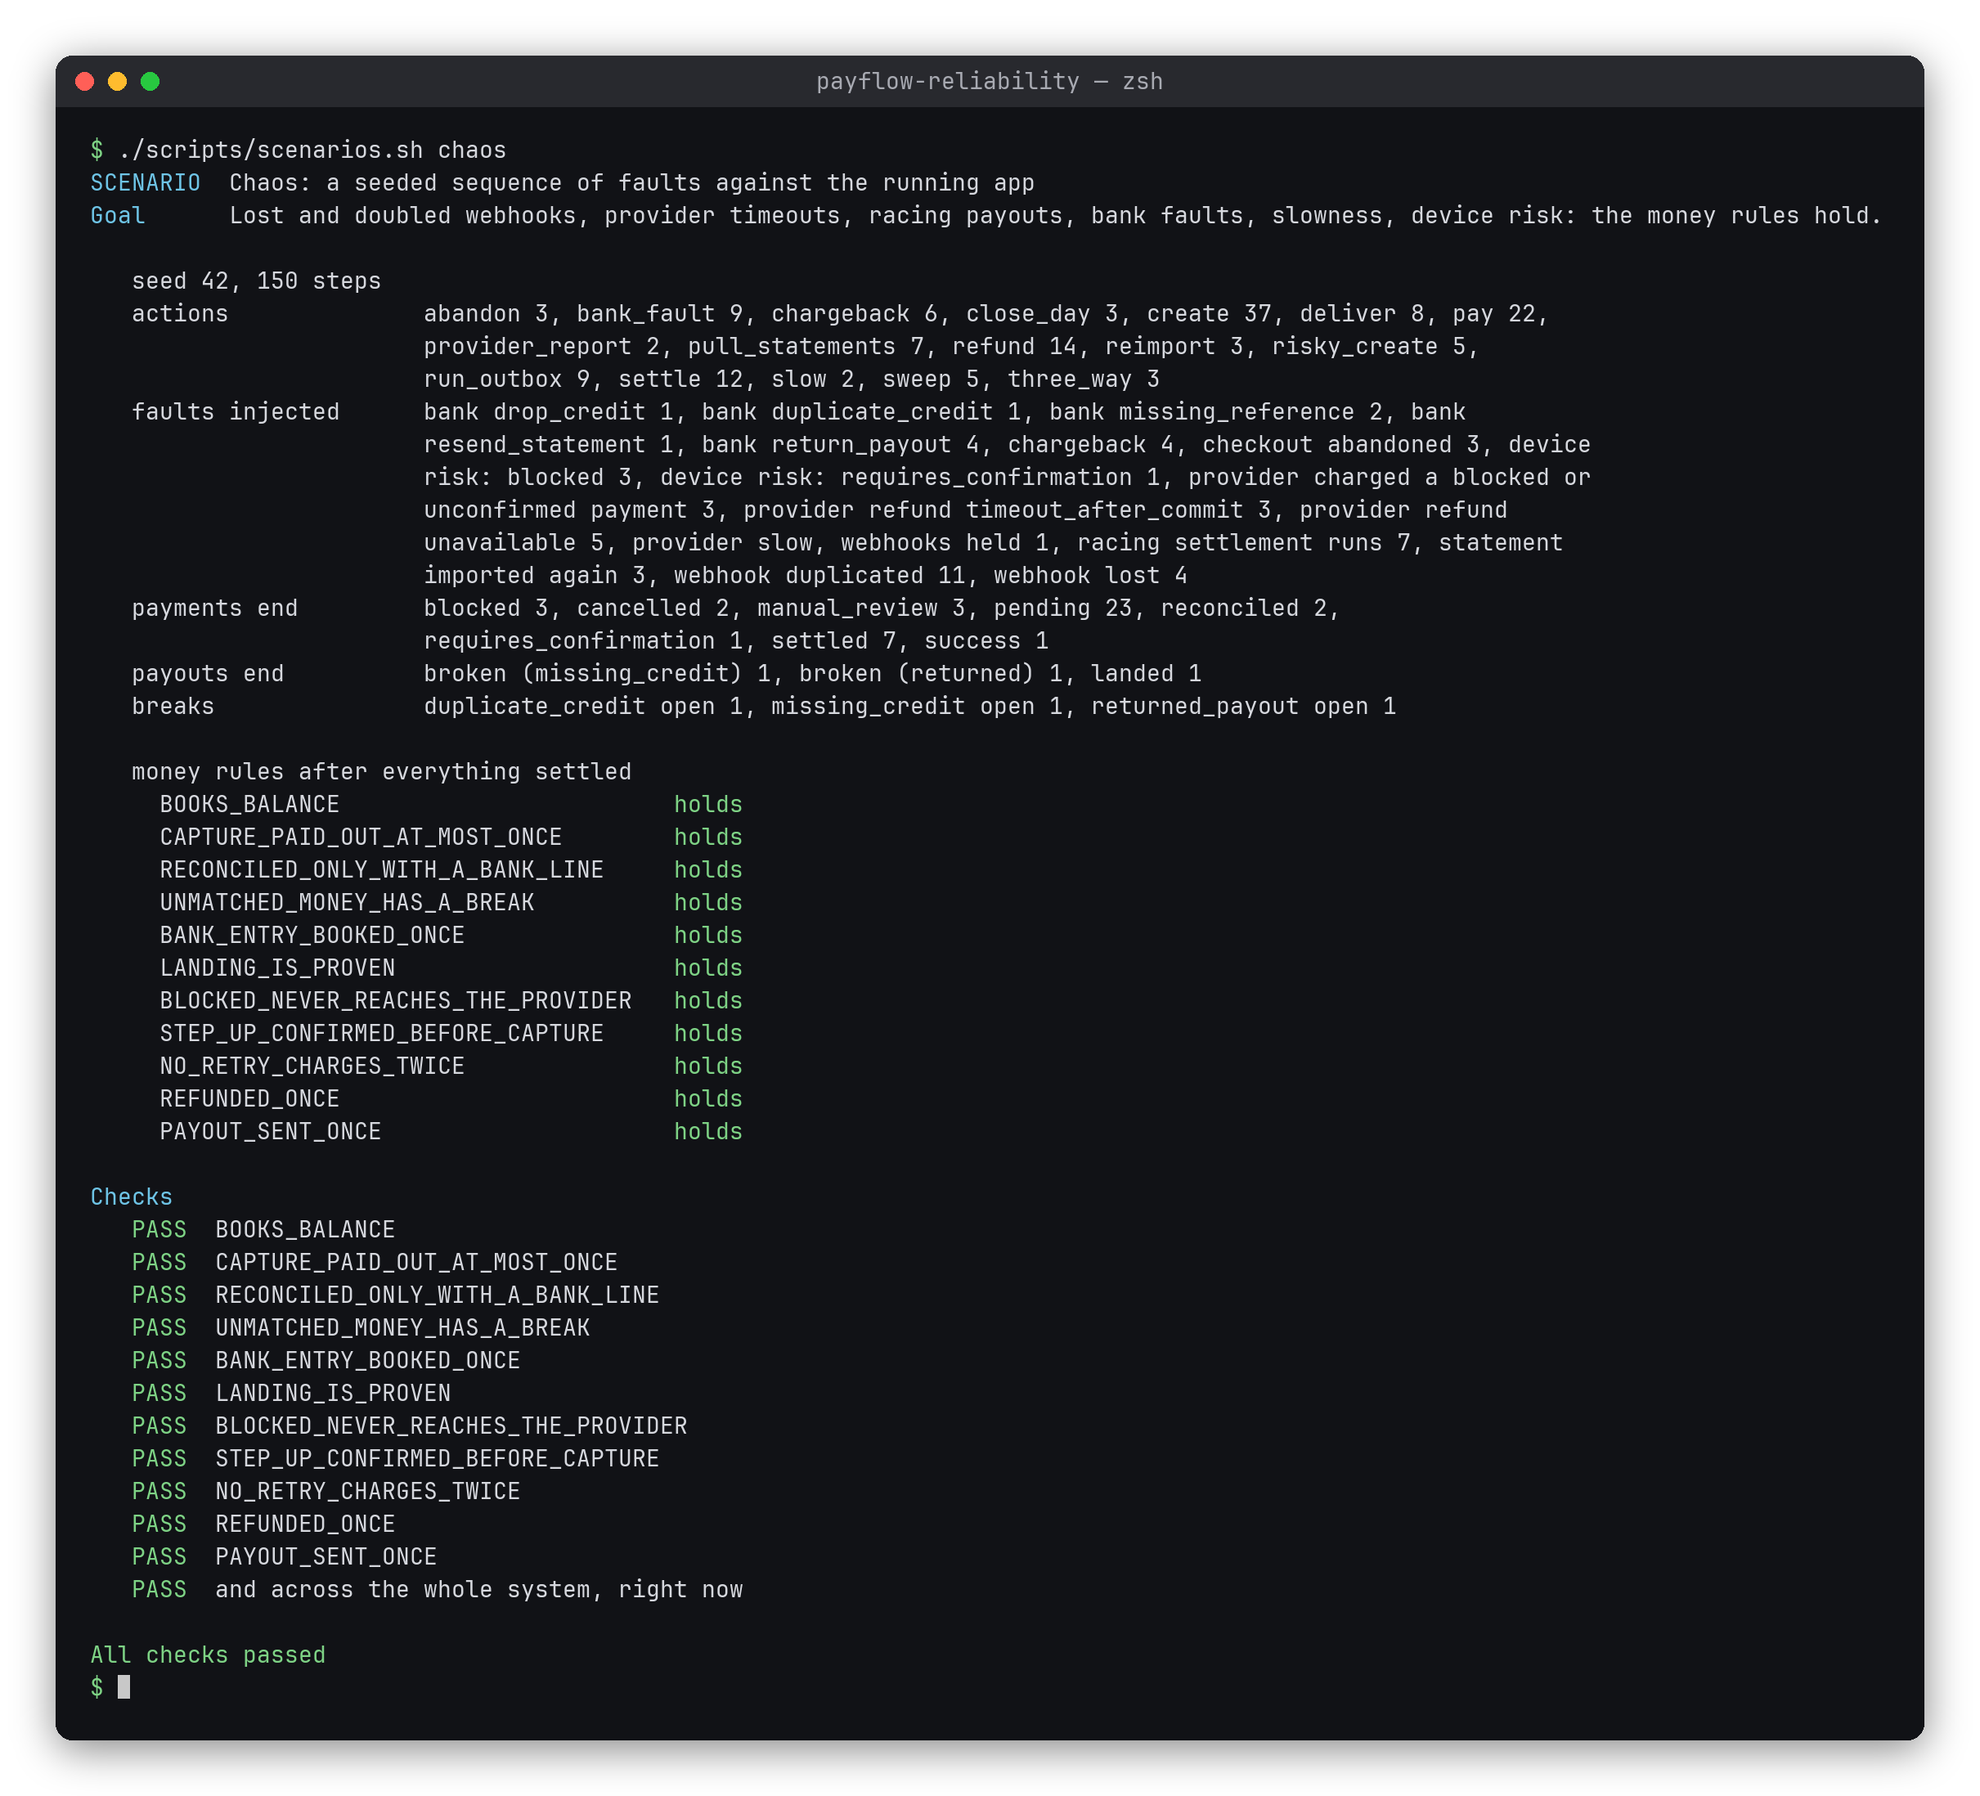
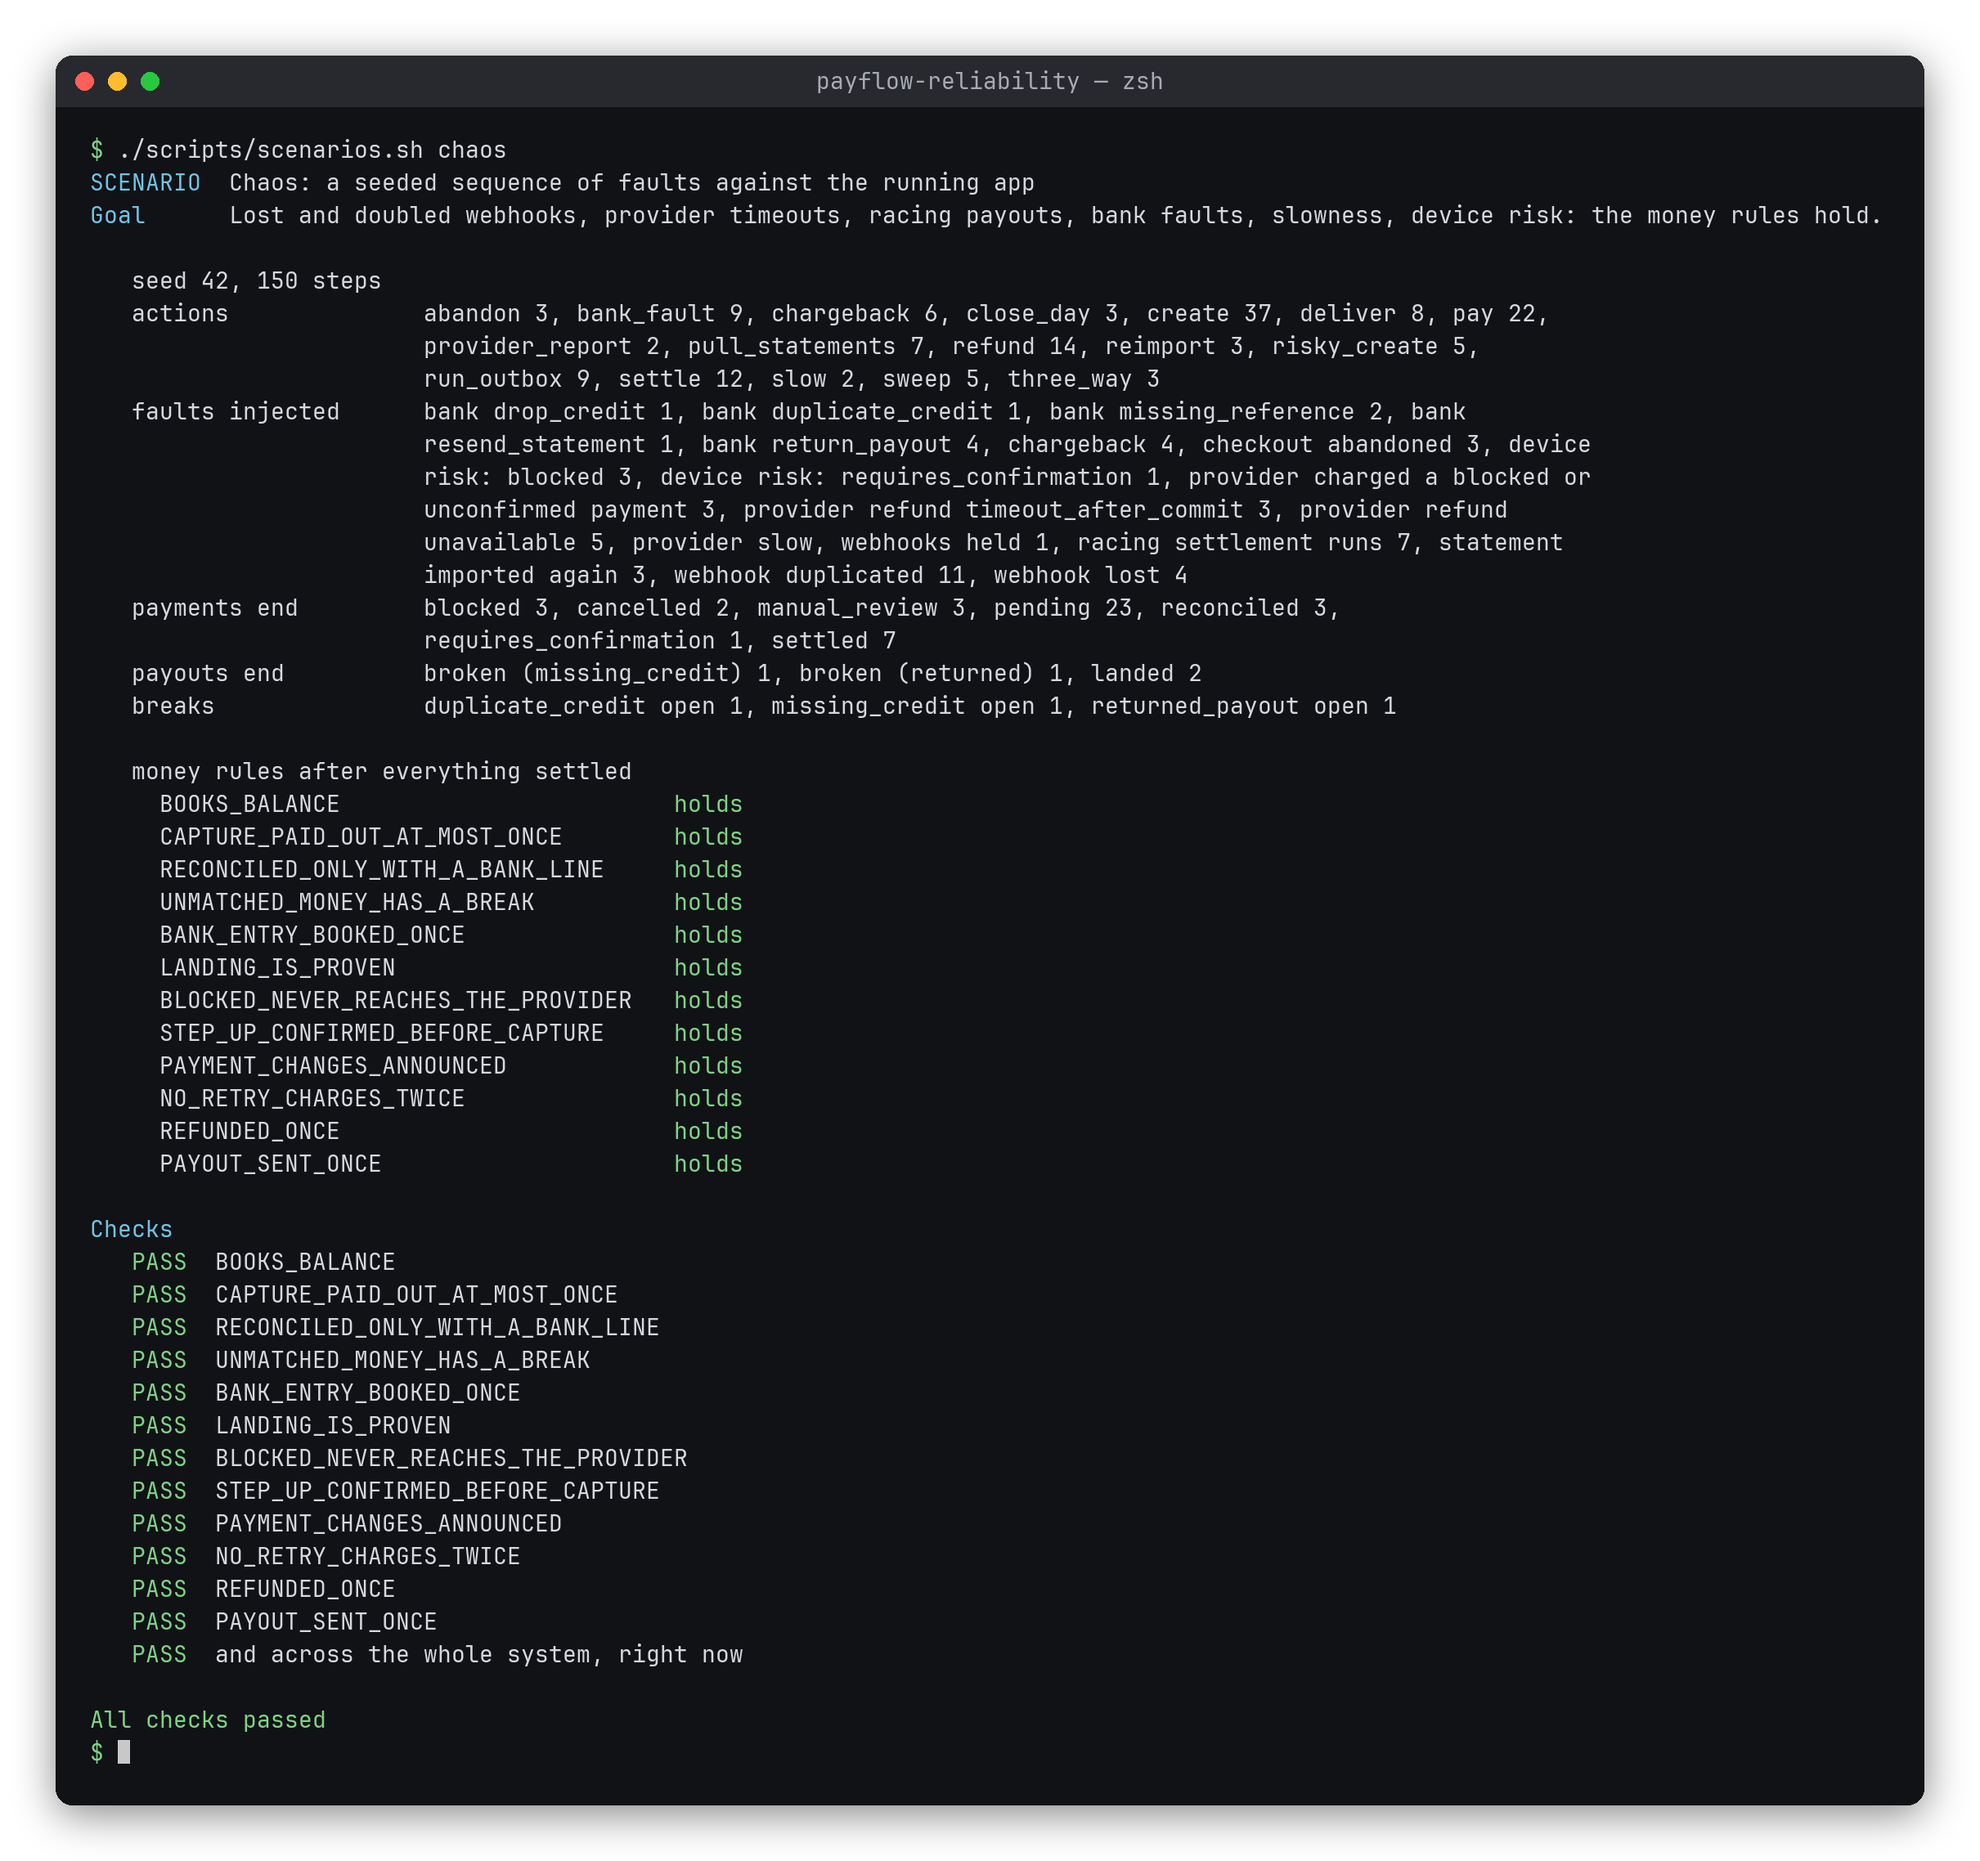
docs(screenshots): show the shop being told, and twelve rules under chaos
Screenshot 24 is the merchant-webhooks scenario. 23 is re-rendered from a
fresh-database run in CI order (twelve rules), and 10 from the suite on both
databases (326 tests in 45 classes).

The settlement guide presented one live chaos run's ending as fixed. The seed
fixes the actions and faults, not how they interleave with the app's background
jobs: three runs from one seed ended with 3, 4 and 4 payouts, every rule holding
each time. The guide now says so. The README's SSRF row counted the guard
test's cases instead of the refused URLs.

diff --git a/README.md b/README.md
@@ -317,7 +317,7 @@ The same suite runs against PostgreSQL by pointing Spring at it (CI does both):
 SPRING_DATASOURCE_URL=jdbc:postgresql://localhost:5432/payflow_reliability SPRING_DATASOURCE_USERNAME=payflow_reliability SPRING_DATASOURCE_PASSWORD=payflow_reliability ./mvnw test
 ```
 
-285 tests in 42 classes, one of them a property-based test that runs 50 random histories of faults. They are
+326 tests in 45 classes, one of them a property-based test that runs 50 random histories of faults. They are
 **not** wrapped in a test-managed transaction: every service call commits or rolls back exactly as in production,
 and the provider and bank simulators and the webhooks run over the server's real HTTP port. Background jobs are
 off in tests and each test runs them explicitly against a movable clock, so retries, leases, replay windows,
@@ -336,7 +336,7 @@ value-date windows and expiry are tested without sleeping.
 | Reconciliation | per-row verdicts incl. refunded amounts, payouts missing from the report, merchant-scoped reports, safe re-import, nothing RECONCILED without a landed payout, breaks with owners, due times and the actions allowed |
 | Slowness | confirmations counted against the SLO, money past the SLO, abandoned checkouts measured exactly as the seeded customers behaved, zero duplicate charges with per-checkout keys and every one counted with per-attempt keys, alert rules unit-tested with `promtool` |
 | Device risk | the app's decisions reproduced for all 256 signal combinations, step-up hold, confirmation method, expiry, block never started, retries keep the first decision, rogue captures to review, fraud stopped, loss, friction, precision and recall equal to the ground truth, the threshold sweep's trade-off |
-| Merchant webhooks | events written only with their change (a rolled-back change has none), per-payment sequence, deliveries over real HTTP to a simulated shop that verifies signatures, deduplicates and ignores stale events; retries for errors, redirects and slow answers; giving up and redelivering; secret rotation with overlap; catch-up paging; isolation between shops; SSRF refusals for 26 kinds of address |
+| Merchant webhooks | events written only with their change (a rolled-back change has none), per-payment sequence, deliveries over real HTTP to a simulated shop that verifies signatures, deduplicates and ignores stale events; retries for errors, redirects and slow answers; giving up and redelivering; secret rotation with overlap; catch-up paging; isolation between shops; SSRF refusals for 23 kinds of URL (private, loopback, link-local and mapped addresses, names that resolve to them, plain http, credentials) |
 | Money rules | twelve rules checked after 50 random histories of faults per run, with coverage checks on what the histories reached; each rule shown catching a planted violation; a seeded chaos run against the live API |
 | Review | allowed actions, release / fail / reverse, two-person approval, proposals rejected, two operators racing |
 | Ledger and audit | every journal balanced, balances per merchant, invariant violations detected, hash chain tamper detection, append-only triggers (PostgreSQL) |
@@ -429,7 +429,7 @@ PostgreSQL), so every one can be reproduced.
 | Net settlement | Four racing runs, one batch; captures minus refunds; a held payment waits | `./scripts/scenarios.sh settlement` |
 | Reconciliation | A verdict per row, a payout missing from the report; the clean match reconciles only once the bank confirms | `./scripts/scenarios.sh reconciliation` |
 | Audit trail | Timeline with actor and request id per step; the hash chain verifies | `./scripts/scenarios.sh audit-trail` |
-| Tests | 285 tests on H2 and on PostgreSQL | `./mvnw test` |
+| Tests | 326 tests on H2 and on PostgreSQL | `./mvnw test` |
 | Provider timeout | The provider refunds, then times out; the customer is refunded exactly once | `./scripts/scenarios.sh provider-outage` |
 | Lost webhook | The sweeper recovers the capture from the provider | `./scripts/scenarios.sh lost-webhook` |
 | Two operators | Chargeback after payout: proposal, self-approval refused, approval, reversal booked | `./scripts/scenarios.sh four-eyes` |
@@ -442,7 +442,8 @@ PostgreSQL), so every one can be reproduced.
 | Statement re-import | Twice by hand, re-sent, re-issued: one bank line, one landing | `./scripts/scenarios.sh statement-reimport` |
 | Slow but up | 4,369,000 IDR abandoned and 7,073,000 past the SLO while health says UP; no duplicate charges | `./scripts/scenarios.sh slow-but-up` |
 | Device risk | Block, step-up, and what each step-up threshold costs in fraud and friction | `./scripts/scenarios.sh device-risk` |
-| Chaos | 150 seeded faults against the live app; all 11 money rules hold | `./scripts/scenarios.sh chaos` |
+| Chaos | 150 seeded faults against the live app; all 12 money rules hold | `./scripts/scenarios.sh chaos` |
+| Merchant webhooks | A payment and a refund told to a shop; the shop down for one delivery, the late copy ignored as stale; a secret rotation; a forged delivery refused | `./scripts/scenarios.sh merchant-webhooks` |
 
 ### Repository overview
 
@@ -535,6 +536,10 @@ PostgreSQL), so every one can be reproduced.
 ### Chaos against the running app
 
 ![Chaos](docs/screenshots/23-chaos-money-rules.png)
+
+### Telling the shop
+
+![Merchant webhooks](docs/screenshots/24-merchant-webhooks.png)
 
 ---
 

diff --git a/docs/settlement-certainty.md b/docs/settlement-certainty.md
@@ -384,8 +384,14 @@ The `chaos` scenario does the same live: `POST /api/simulations/chaos-runs` play
 steps) through the public APIs of the shop, the provider and the bank, lets everything settle, and returns what
 happened and every rule. On a fresh database it played, among others, 37 checkouts and 5 with device evidence,
 22 payments, 14 refunds (3 with the provider committing then timing out, 5 while it was down), 12 settlement runs
-(7 of them racing), 4 chargebacks, 9 bank faults, a slow period and 11 duplicated and 4 lost webhooks. It ended
-with 3 payouts (1 landed, 1 credit missing, 1 returned), 3 open breaks each with an owner, and all 11 rules holding.
+(7 of them racing), 4 chargebacks, 9 bank faults, a slow period and 11 duplicated and 4 lost webhooks. The run in
+the screenshot ended with 4 payouts (2 landed, 1 credit missing, 1 returned), 3 open breaks each with an owner, and
+all 12 rules holding.
+
+The seed fixes the actions and the faults, not how they interleave with the running app's own background jobs
+(webhook delivery, provider calls, statement pulls). So the ending can differ between runs by a payout or a break:
+three runs from the same seed ended with 3, 4 and 4 payouts. The rules held in every one, which is the point; the
+property-based test, where the jobs run only when the history says so, is the reproducible version.
 
 ![Chaos](screenshots/23-chaos-money-rules.png)
 
@@ -407,7 +413,8 @@ packaged app on PostgreSQL.
 | `statement-reimport` | twice by hand, re-sent, re-issued | 1 bank line, 1 landing journal; the re-issued copy opens a break |
 | `slow-but-up` | slowness in money, health UP | 16 abandoned (4,369,000), 24 past SLO (7,073,000), 0 duplicates |
 | `device-risk` | step-up, block, and the price of a threshold | precision 0.400, recall 0.933, fraud loss 3,585,000, friction 7,363,000 |
-| `chaos` | seeded faults, live | 150 steps, 11 of 11 rules hold |
+| `chaos` | seeded faults, live | 150 steps, 12 of 12 rules hold (the ending can vary, see 5.4) |
+| `merchant-webhooks` | the shop is told once and in order through an outage and a secret rotation | 5 events delivered, 1 retried, its late copy ignored as stale, a forgery refused |
 
 Dates and statement numbers depend on how far the simulated bank's calendar has moved, so they differ when a
 scenario runs on its own; amounts and counts do not.
